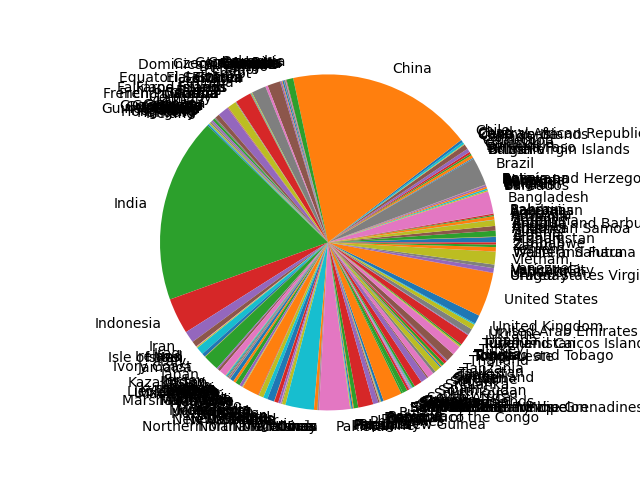
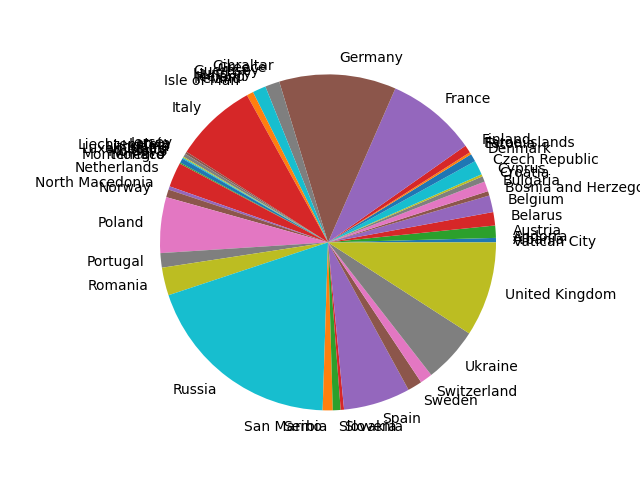
Update README.md - Implement Pandas in app Project - Implement FastAPI in web-server Project

diff --git a/app/main.py b/app/main.py
@@ -1,12 +1,21 @@
 import utils
 import readCSV
 import charts
+import pandas as pd
 
 
 def run():
+    """
     data = readCSV.readCSV("data.csv")
     countries = list(map(lambda x: x["Country/Territory"], data))
     percentagesByCountry = list(map(lambda x: x["World Population Percentage"], data))
+    charts.generatePieChart(countries, percentagesByCountry)
+    """
+
+    dataFrames = pd.read_csv("data.csv")
+    dataFrames = dataFrames[dataFrames["Continent"] == "Europe"]
+    countries = dataFrames["Country/Territory"].values
+    percentagesByCountry = dataFrames["World Population Percentage"].values
     charts.generatePieChart(countries, percentagesByCountry)
 
     data = readCSV.readCSV("data.csv")

diff --git a/web-server/main.py b/web-server/main.py
@@ -1,0 +1,26 @@
+import store
+from fastapi import FastAPI
+from fastapi.responses import HTMLResponse
+
+app = FastAPI()
+
+
+@app.get("/")
+def getList():
+    return [1, 2, 3]
+
+
+@app.get("/contact", response_class=HTMLResponse)
+def getList():
+    return """
+        <h1>Hello mates!!</h1>
+        <p>How is it going?!</p>
+    """
+
+
+def run():
+    store.getCategories()
+
+
+if __name__ == "__main__":
+    run()

diff --git a/web-server/store.py b/web-server/store.py
@@ -1,0 +1,10 @@
+import requests
+
+
+def getCategories():
+    request = requests.get("https://api.escuelajs.co/api/v1/categories")
+    print(request.status_code)
+    # print(request.text) This line will print a string
+    categories = request.json()
+    for category in categories:
+        print(category["name"])

diff --git a/README.md b/README.md
@@ -12,6 +12,7 @@ python3 main.py
 ```sh
 git clone
 cd app
+python3 -m venv env
 source env/bin/activate
 pip3 install -r requirements.text
 python3 main.py
